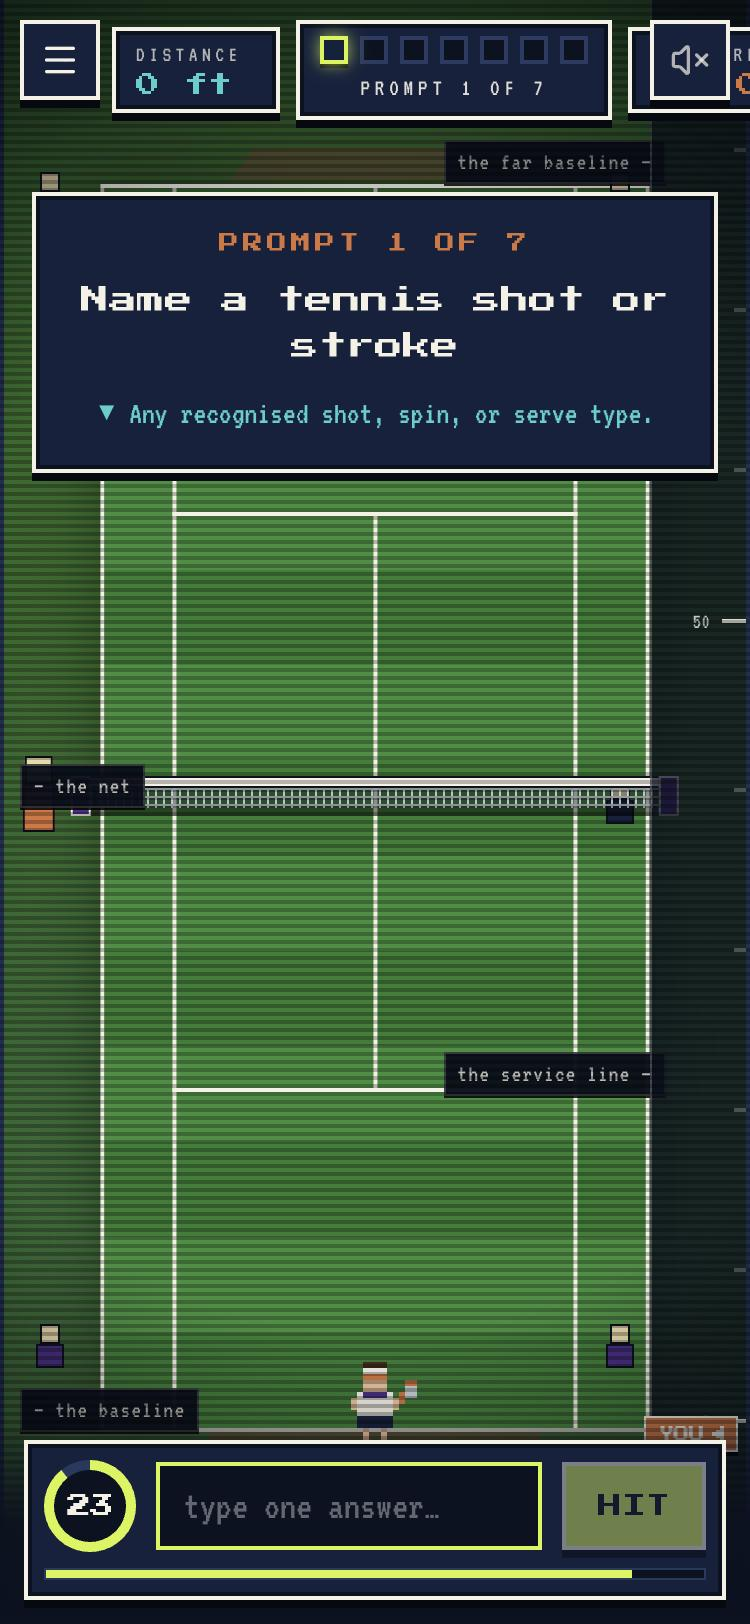
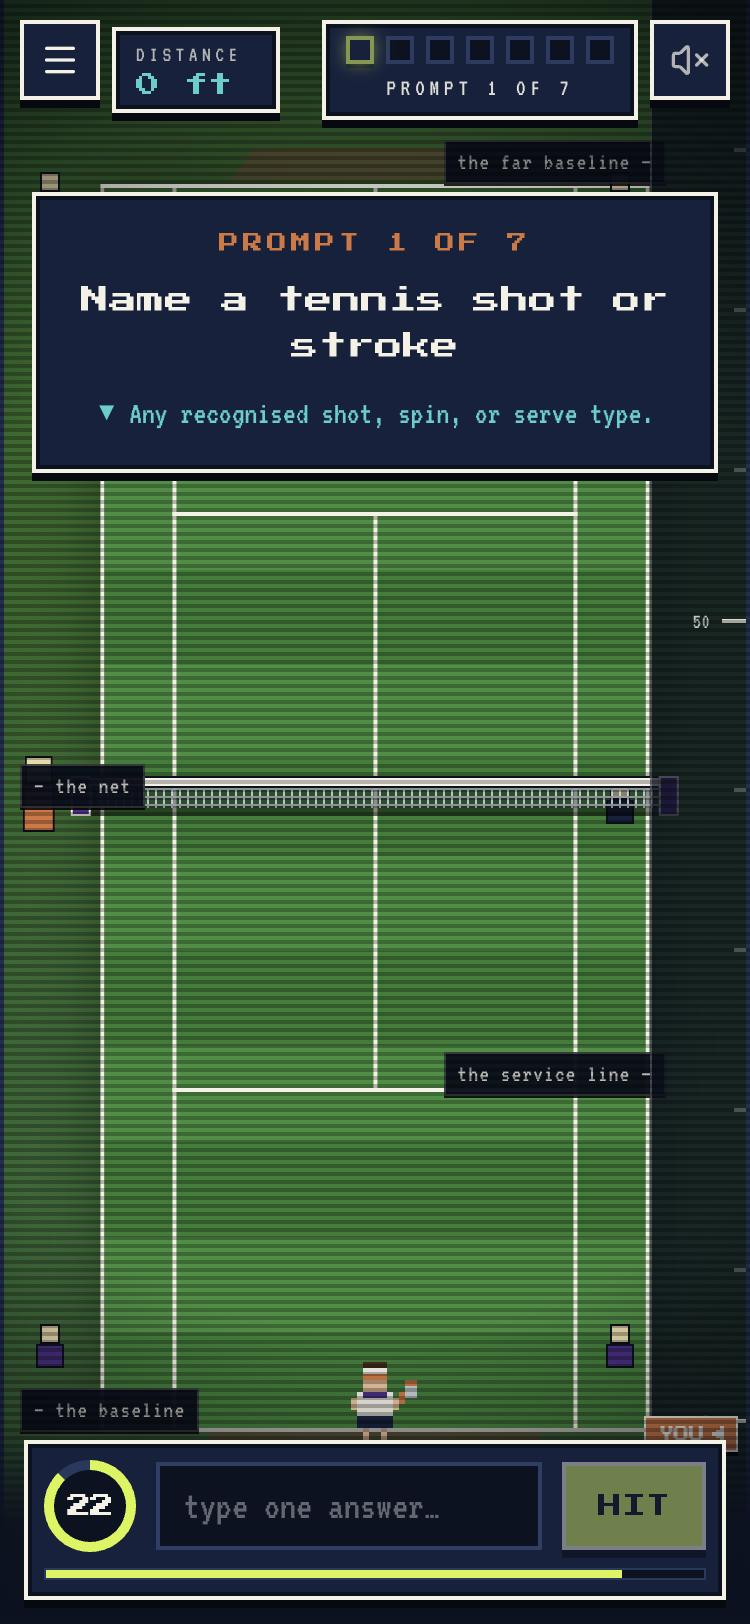
Polish for phones and remove v0 leftovers before launch
- HUD: hide the SCORE box below sm (it always equals distance) so it no longer
  sits under the sound button; keep "100 ft" on one line
- Scorecard: on phones the tier badge moves under the answer, answers wrap
  instead of truncating, and the points column sizes to its content
- Replace v0's favicon/apple icon with a pixel tennis ball; drop the
  generator tag and unused v0 placeholder images
- Remove the mock merch survey (its votes went nowhere)
- Reveal says "nobody else has said this" instead of "0% of players"
- Refresh the README screenshots with the fixed layout

diff --git a/deep-ball/components/results/Scorecard.tsx b/deep-ball/components/results/Scorecard.tsx
@@ -10,7 +10,6 @@ import { StatsGrid } from "./StatsGrid";
 import { DistributionChart } from "./DistributionChart";
 import { ShareButton } from "./ShareButton";
 import { LeaderboardCard } from "./LeaderboardCard";
-import { MerchSurvey } from "@/components/chrome/MerchSurvey";
 
 interface ScorecardProps {
   matchRecord: CompletedMatchRecord;
@@ -132,7 +131,22 @@ export function Scorecard({ matchRecord, onReplay }: ScorecardProps) {
             {promptRows.map((row) => {
               const tierMeta = TIERS[row.tier];
               const isTimeout = row.tier === "TIME_VIOLATION";
+              const tierBadge = (extra: string) => (
+                <span
+                  className={`px-2 py-0.5 font-display text-[8px] sm:text-[9px] border border-black/80 ${extra} ${
+                    tierMeta.shimmer ? "grand-slam-shimmer" : ""
+                  }`}
+                  style={{
+                    backgroundColor: "#0B1220",
+                    color: tierMeta.color,
+                    borderColor: tierMeta.color,
+                  }}
+                >
+                  {tierMeta.label}
+                </span>
+              );
 
+              // Phones: the tier sits under the answer so the answer gets the full width.
               return (
                 <div
                   key={row.promptIndex}
@@ -143,29 +157,19 @@ export function Scorecard({ matchRecord, onReplay }: ScorecardProps) {
                       {`#${row.promptIndex}`}
                     </span>
                     <div className="min-w-0">
-                      <div className="font-display text-xs sm:text-sm text-[var(--chalk)] truncate">
+                      <div className="font-display text-xs sm:text-sm text-[var(--chalk)] break-words sm:truncate leading-snug">
                         {isTimeout ? "—" : row.canonical}
                       </div>
                       <div className="font-vt text-xs sm:text-sm text-[var(--net)] truncate">
                         {row.promptText}
                       </div>
+                      {tierBadge("inline-block mt-1 sm:hidden")}
                     </div>
                   </div>
 
                   <div className="flex items-center gap-2 shrink-0">
-                    <span
-                      className={`px-2 py-0.5 font-display text-[8px] sm:text-[9px] border border-black/80 ${
-                        tierMeta.shimmer ? "grand-slam-shimmer" : ""
-                      }`}
-                      style={{
-                        backgroundColor: "#0B1220",
-                        color: tierMeta.color,
-                        borderColor: tierMeta.color,
-                      }}
-                    >
-                      {tierMeta.label}
-                    </span>
-                    <span className="font-display text-[10px] sm:text-xs text-[#3FD0C9] w-20 text-right whitespace-nowrap">
+                    {tierBadge("hidden sm:inline-block")}
+                    <span className="font-display text-[10px] sm:text-xs text-[#3FD0C9] sm:w-20 text-right whitespace-nowrap">
                       {`+${row.points} ft`}
                     </span>
                   </div>
@@ -216,9 +220,6 @@ export function Scorecard({ matchRecord, onReplay }: ScorecardProps) {
           </Link>
         </div>
       </div>
-
-      {/* Dismissible Merch Survey */}
-      <MerchSurvey />
     </div>
   );
 }

diff --git a/deep-ball/lib/stats.ts b/deep-ball/lib/stats.ts
@@ -1,7 +1,6 @@
 // Per-browser preferences only. Match history and stats live on the server (GET /api/me).
 
 const SETTINGS_KEY = "deepball:settings:v1";
-const MERCH_DISMISSED_KEY = "deepball:merch_dismissed:v1";
 
 export interface UserSettings {
   soundEnabled: boolean;
@@ -35,28 +34,6 @@ export function saveSettings(next: UserSettings): void {
       window.localStorage.setItem(SETTINGS_KEY, JSON.stringify(next));
       document.documentElement.classList.toggle("reduced-motion", next.reducedMotion);
       document.documentElement.classList.toggle("high-contrast", next.highContrast);
-    }
-  } catch {
-    // Ignore
-  }
-}
-
-export function isMerchDismissed(): boolean {
-  try {
-    if (typeof window === "undefined") return false;
-    return window.localStorage.getItem(MERCH_DISMISSED_KEY) === "true";
-  } catch {
-    return false;
-  }
-}
-
-export function dismissMerchSurvey(vote?: "up" | "down"): void {
-  try {
-    if (typeof window !== "undefined") {
-      window.localStorage.setItem(MERCH_DISMISSED_KEY, "true");
-      if (vote) {
-        window.localStorage.setItem("deepball:merch_vote:v1", vote);
-      }
     }
   } catch {
     // Ignore

diff --git a/deep-ball/components/hud/Hud.tsx b/deep-ball/components/hud/Hud.tsx
@@ -27,7 +27,7 @@ export function Hud({
           <div className="font-vt text-[11px] sm:text-xs tracking-[0.2em] text-[var(--chalk)]/70 uppercase leading-none">
             DISTANCE
           </div>
-          <div className="font-display text-xs sm:text-sm text-[#3FD0C9] mt-1 leading-none">
+          <div className="font-display text-xs sm:text-sm text-[#3FD0C9] mt-1 leading-none whitespace-nowrap">
             {`${distance} ft`}
           </div>
         </div>
@@ -41,8 +41,9 @@ export function Hud({
           />
         </div>
 
-        {/* Right Box: SCORE */}
-        <div className="pixel-box px-2.5 py-1.5 sm:px-3.5 sm:py-2 min-w-[78px] sm:min-w-[104px] text-right pointer-events-auto">
+        {/* Right Box: SCORE. It always equals the distance, so phones skip it to leave room
+            for the menu and sound buttons on either side of the HUD. */}
+        <div className="hidden sm:block pixel-box px-3.5 py-2 min-w-[104px] text-right pointer-events-auto">
           <div className="font-vt text-[11px] sm:text-xs tracking-[0.2em] text-[var(--chalk)]/70 uppercase leading-none">
             SCORE
           </div>

diff --git a/deep-ball/app/layout.tsx b/deep-ball/app/layout.tsx
@@ -28,21 +28,10 @@ export const metadata: Metadata = {
   title: 'DEEP BALL — Tennis Edition | Rarer Answers Hit Deeper',
   description:
     'Daily 8-bit tennis rarity trivia game. 7 prompts, 25 seconds each. Rarer answers hit deeper down the stadium court.',
-  generator: 'v0.app',
   icons: {
     icon: [
-      {
-        url: '/icon-light-32x32.png',
-        media: '(prefers-color-scheme: light)',
-      },
-      {
-        url: '/icon-dark-32x32.png',
-        media: '(prefers-color-scheme: dark)',
-      },
-      {
-        url: '/icon.svg',
-        type: 'image/svg+xml',
-      },
+      { url: '/icon.svg', type: 'image/svg+xml' },
+      { url: '/icon-32x32.png', sizes: '32x32', type: 'image/png' },
     ],
     apple: '/apple-icon.png',
   },

diff --git a/deep-ball/components/game/TierLadder.tsx b/deep-ball/components/game/TierLadder.tsx
@@ -73,7 +73,7 @@ export function TierLadder({ earnedTier, pctOfPlayers }: TierLadderProps) {
 
             {isEarned && typeof pctOfPlayers === "number" && (
               <div className="mt-1 text-right font-vt text-xs sm:text-sm text-[#3FD0C9]">
-                {`${pctOfPlayers}% of players said this`}
+                {pctOfPlayers > 0 ? `${pctOfPlayers}% of players said this` : "nobody else has said this"}
               </div>
             )}
           </motion.div>
